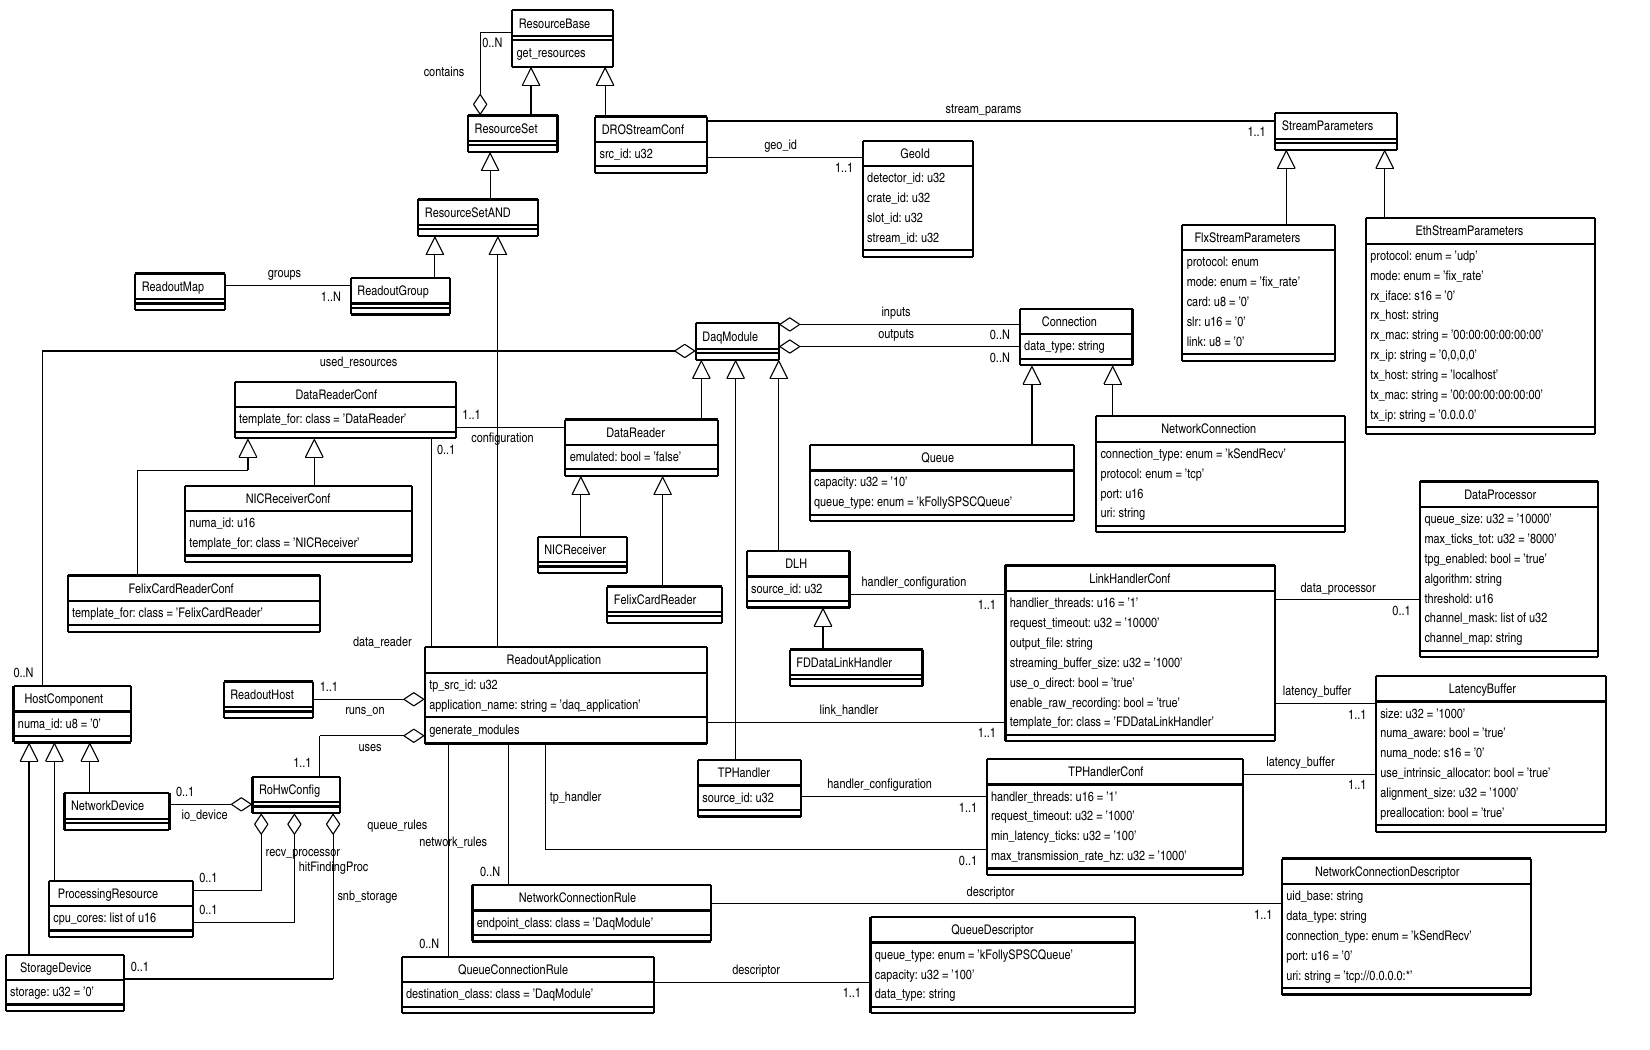
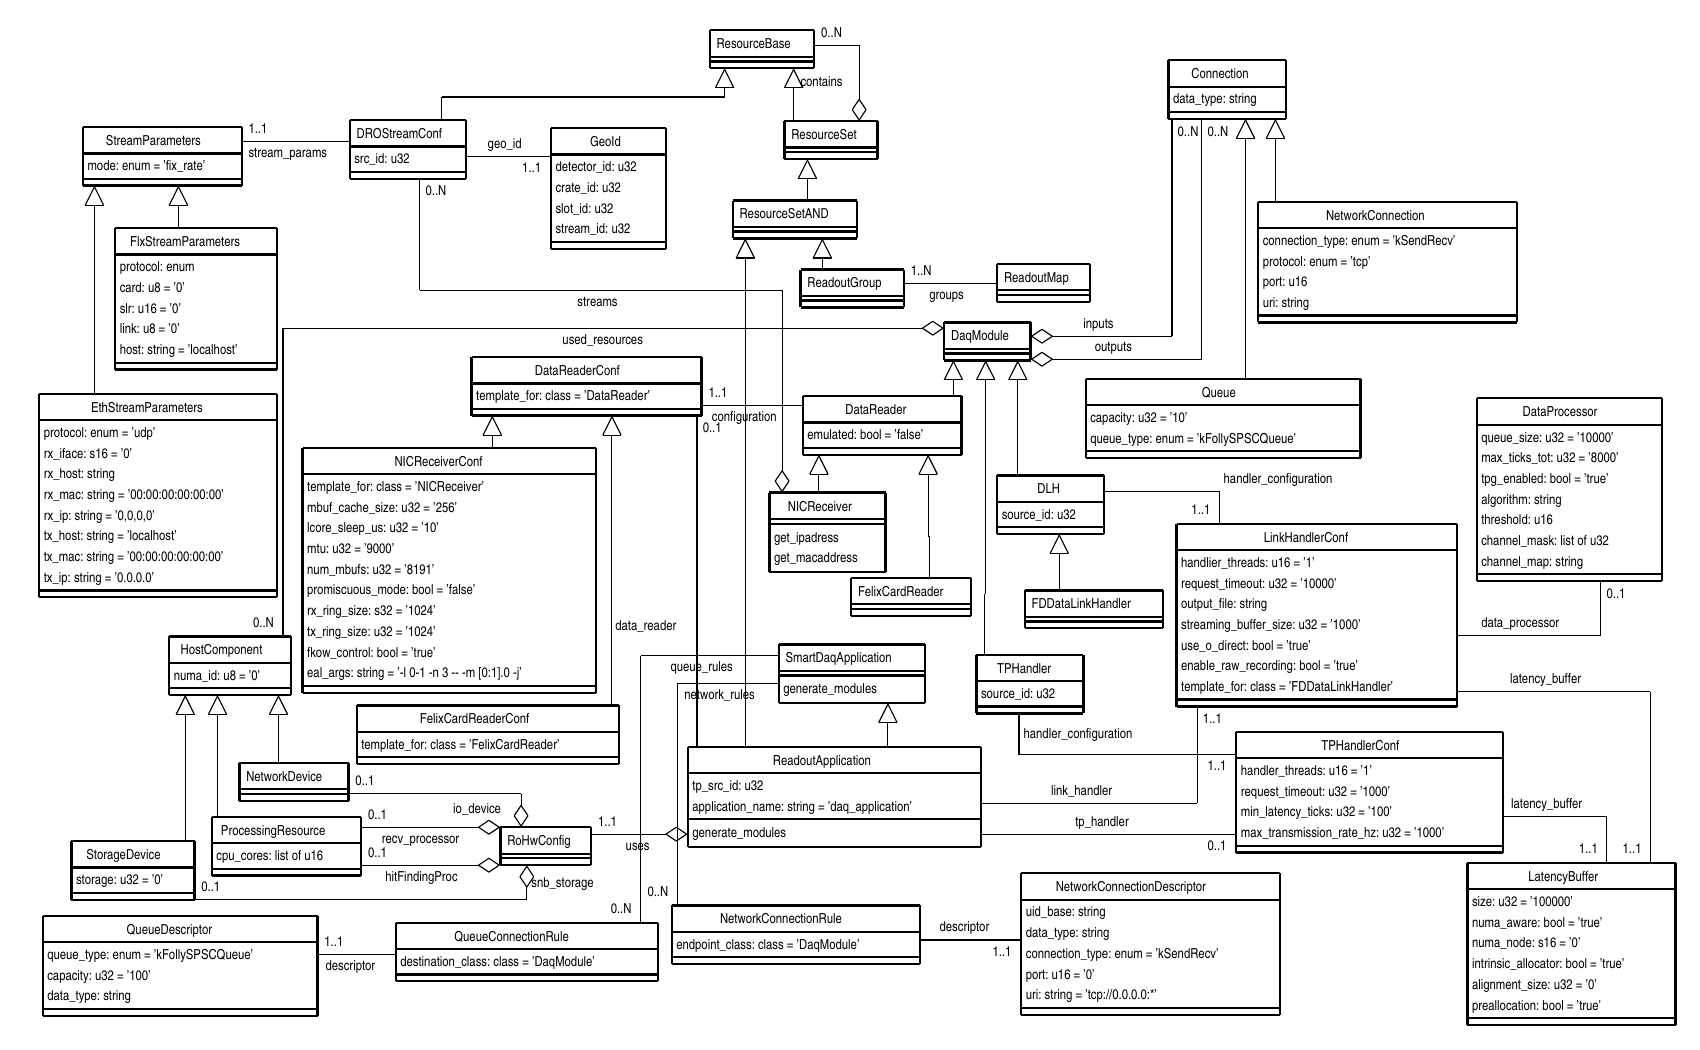
Update documentation

diff --git a/docs/README.md b/docs/README.md
@@ -5,18 +5,44 @@ to describe readout applications.
 
   ![schema](schema.png)
 
-The ReadoutApplication is a SmartDaqApplication which has no direct
+## ReadoutMap
+
+ The ReadoutMap included here is currently a direct translation from
+the jsonnet schema in the `daqconf` package with the addition of a
+grouping class ReadoutGroup. 
+
+ The DROStreamConf class inherits from ResourceBase allowing
+individual streams to be disabled.  DROStreamConfs are grouped into
+ReadoutGroups which inherit from ResourceSetAND so if all streams in a
+group are disabled the group itselg is disabled.
+
+The EthStreamParameters and the FlxStreamParameters classes both
+contain host addresses. It is not clear how these relate to the
+VirtualHost/PhysicalHost classes from the core schema.
+
+## ReadoutApplication
+
+ The ReadoutApplication is a SmartDaqApplication which has no direct
 relationships with DaqModules. The DaqModules themselves are generated
 on the fly by ReadoutApplication's `generate_modules()` method
 according to DaqModule configurations given by the link_handler,
 tp_handler and data_reader relationships.
 
-'ReadoutApplication' is a 'ResourceSetAND'. This means it has a
-'contains' relationship that can contain any class inheriting from
-'RsourceBase' but should only contain 'ReadoutGroups'. The
-'generate_modules' method is used to generate 'DataReaders' and
-'DataLinkHandlers' on the fly. To know how to generate a 'DataReader'
-a 'DataReaderConf' should be provided.
+ReadoutApplication is a ResourceSetAND. This means it has a
+contains relationship that can contain any class inheriting from
+RsourceBase but should only contain ReadoutGroups. The
+`generate_modules` method is used to generate DataReaders and
+DataLinkHandlers on the fly. To know how to generate a DataReader
+a DataReaderConf must be provided.
+
+### NICReader
+
+ The NICReader, which is generated on the fly by the
+ ReadoutApplication's `generate_modules()`, has a relationship to a
+ NICReceiverConf which will be the same for all NICReceivers of the
+ ReadoutApplication and maybe for all the ReadoutApplications in the
+ Session. Its only distinguishing configuration item is the
+ relationship it has to a DROStreamConf.
 
 ## DataFlow applications
 
